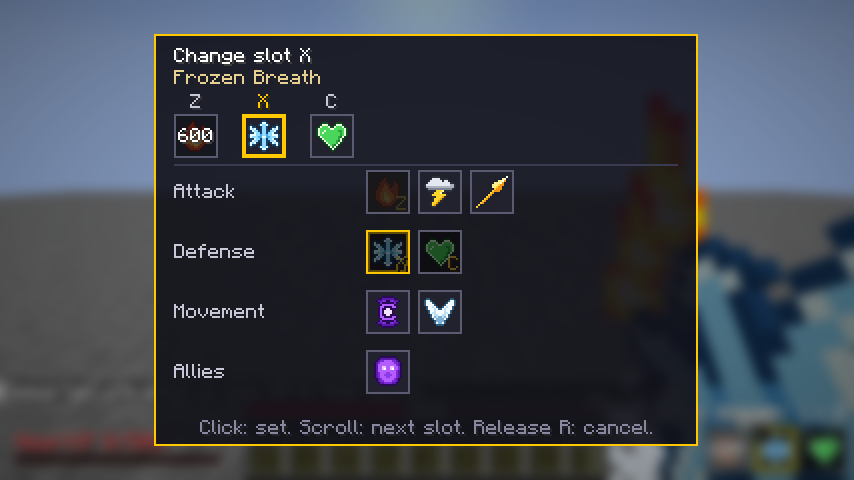
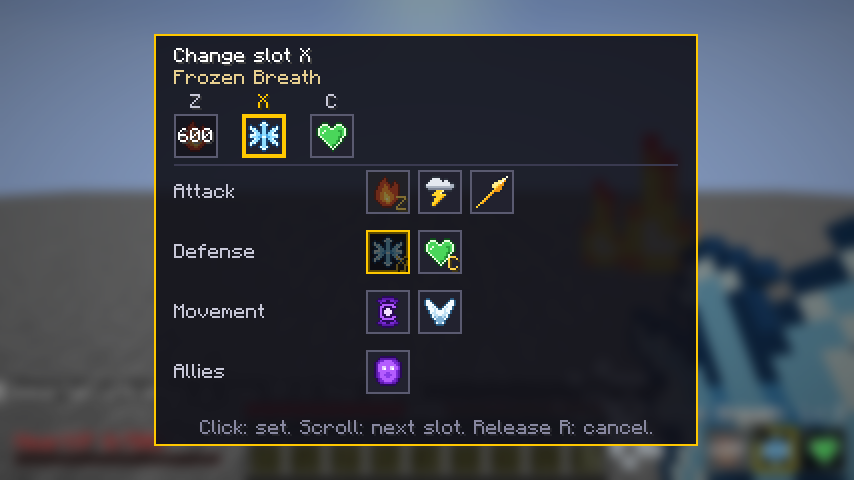
Wheel darkens only the edited slot's technique (D193); grasped evoker's vexes spare other players outside Death Match and villagers (D194)

diff --git a/mods/immortal-cultivation/src/gametest/java/io/github/huydangtruong/immortalcultivation/GraspGameTest.java b/mods/immortal-cultivation/src/gametest/java/io/github/huydangtruong/immortalcultivation/GraspGameTest.java
@@ -144,7 +144,7 @@ public class GraspGameTest {
 	}
 
 	@GameTest(maxTicks = 40)
-	public void theVexesOfAGraspedEvokerNeverAttackTheOwner(GameTestHelper c) { // D192
+	public void theVexesOfAGraspedEvokerNeverAttackTheOwnerOtherPlayersOrVillagers(GameTestHelper c) { // D192, D194
 		ServerPlayer p = grasper(c, 10);
 		net.minecraft.world.entity.monster.illager.Evoker ev = c.spawn(EntityTypes.EVOKER, new Vec3(6.5, 1, 5.5));
 		ev.setNoAi(true);
@@ -158,8 +158,16 @@ public class GraspGameTest {
 		c.assertTrue(Grasp.isGraspedBy(mine, p.getUUID()), "it counts as the owner's ally (techniques and allies skip it)");
 		c.assertTrue(!ev.canAttack(mine), "the evoker's other followers leave it alone");
 		c.assertTrue(wild.canAttack(p), "a wild vex still attacks the player");
+		ServerPlayer other = FlightBladeGameTest.survivor(c); // D194: no Death Match here
+		net.minecraft.world.entity.npc.villager.Villager villager = c.spawn(EntityTypes.VILLAGER, new Vec3(5.5, 1, 2.5));
+		villager.setNoAi(true);
+		c.assertTrue(!mine.canAttack(other), "a vex of the grasped evoker leaves another player alone outside a Death Match");
+		c.assertTrue(!mine.canAttack(villager), "a vex of the grasped evoker never attacks a villager");
+		c.assertTrue(wild.canAttack(other), "a wild vex still attacks any player");
 		mine.discard();
 		wild.discard();
+		villager.discard();
+		FlightBladeGameTest.drop(c, other);
 		cleanUp(c, p);
 		c.succeed();
 	}

diff --git a/mods/immortal-cultivation/src/client/java/io/github/huydangtruong/immortalcultivation/client/TechniqueWheelScreen.java b/mods/immortal-cultivation/src/client/java/io/github/huydangtruong/immortalcultivation/client/TechniqueWheelScreen.java
@@ -18,7 +18,7 @@ import net.minecraft.network.chat.Component;
 
 /**
  * D188/D193 technique wheel: opened by holding R (from the cross it first selects the lowest ready slot). A top row shows the
- * technique slots; the mouse wheel moves the target slot. Techniques that already sit in a slot are drawn darkened.
+ * technique slots; the mouse wheel moves the target slot. The technique already in the edited slot is drawn darkened.
  * D188: opened by holding R while a technique slot is selected. Shows the learned techniques by group; a click
  * puts that technique in the selected slot (the server swaps two slots when it already sits in another one). Letting go of R,
  * or Esc, closes it without a change. The world keeps running behind it.
@@ -196,9 +196,8 @@ public class TechniqueWheelScreen extends Screen {
 				if (at >= 0 && at < d.slotsOpen()) {
 					g.text(font, slotKeyName(at), cx + CELL - 1 - font.width(slotKeyName(at)), ry + CELL - 9, 0xFFFFD24A, true);
 				}
-				int listed = d.slotOf(t);
-				if (listed >= 0 && listed < d.slotsOpen()) {
-					g.fill(cx + 1, ry + 1, cx + CELL - 1, ry + CELL - 1, 0xA0000000); // D193: already in a slot
+				if (t == current) {
+					g.fill(cx + 1, ry + 1, cx + CELL - 1, ry + CELL - 1, 0xA0000000); // D193: already in the edited slot (others stay bright: a click swaps)
 				}
 				if (d.onCooldown(t, now)) {
 					g.fill(cx + 1, ry + 1, cx + CELL - 1, ry + CELL - 1, 0x90202020);

diff --git a/mods/immortal-cultivation/src/main/java/io/github/huydangtruong/immortalcultivation/technique/grasp/Grasp.java b/mods/immortal-cultivation/src/main/java/io/github/huydangtruong/immortalcultivation/technique/grasp/Grasp.java
@@ -259,6 +259,10 @@ public final class Grasp {
 			if (target.getUUID().equals(mine.owner()) || graspOf(target) != null) {
 				return true; // never its owner, never another grasped mob (nor a vex of a grasped evoker, D192)
 			}
+			if (attacker instanceof net.minecraft.world.entity.monster.Vex && !attacker.hasAttached(GraspedMob.ATTACHMENT)
+				&& (target instanceof net.minecraft.world.entity.npc.villager.AbstractVillager || target instanceof Player && !isMatchOpponentOf(attacker, mine, target))) {
+				return true; // D194: a grasped evoker's vex leaves villagers and other players alone (Death Match opponents excepted)
+			}
 		}
 		if (target.hasAttached(GraspedMob.ATTACHMENT) && (attacker instanceof net.minecraft.world.entity.animal.golem.IronGolem
 			|| attacker instanceof net.minecraft.world.entity.animal.golem.SnowGolem || attacker instanceof net.minecraft.world.entity.animal.wolf.Wolf)) {
@@ -271,6 +275,11 @@ public final class Grasp {
 			}
 		}
 		return false;
+	}
+
+	private static boolean isMatchOpponentOf(Mob attacker, GraspedMob g, LivingEntity target) {
+		ServerPlayer o = attacker.level() instanceof ServerLevel sl ? sl.getServer().getPlayerList().getPlayer(g.owner()) : null;
+		return o != null && isMatchOpponent(o, target);
 	}
 
 	/** Death Match: any other player is an opponent of the owner of a grasped mob. */

diff --git a/docs/system/01-decisions.md b/docs/system/01-decisions.md
@@ -194,4 +194,5 @@
 | D190 | Raid không đếm quái sinh tự nhiên; quái raid phát sáng | Huy (2026-11-22): danger cao làm pillager, vindicator… sinh khắp nơi, và game gốc cho chúng tự nhập vào raid gần đó nên raid không bao giờ hết. Nay **quái illager sinh tự nhiên không bao giờ vào raid**; raid chỉ đếm quái của các đợt raid (và đội tuần tra như game gốc). **Mọi quái đang trong raid phát sáng viền** như khi rung chuông, làm mới mỗi giây, hết sáng khi rời raid. Quái tự nhiên đã lỡ vào raid trước bản này vẫn phải giết. |
 | D191 | Sửa lỗi vindicator thu phục đứng yên ban đêm | Huy (2026-11-22): vindicator thu phục (nhất là con từ đội tuần tra) ban đêm cúi mặt đứng yên, không theo, không đánh. Nguyên nhân: goal gốc "giữ vị trí" của đội tuần tra làm nó đứng nhìn mục tiêu ở xa (ban đêm luôn có quái) và chặn cả đánh lẫn đi theo. Nay quái thu phục **bỏ các goal tuần tra, giữ vị trí, đi tới raid, ăn mừng, nhặt cờ**: vẫn đi theo, vẫn đánh quái. |
 | D192 | Sửa lỗi vex của evoker thu phục đánh chủ | Huy (2026-11-22): vex do evoker đã thu phục gọi ra đôi khi đánh chủ. Nay vex của evoker thu phục **tính là phe chủ**: không bao giờ đánh chủ và quái thu phục khác; chiêu của chủ, clone, guardian, angel cũng không đánh nó. Vex hoang vẫn như cũ. |
-| D193 | Bảng đổi chiêu: chọn ô tự động, hàng ô chiêu, lăn chuột | Huy (2026-11-22): giữ R khi không chọn ô chiêu (đang cầm đồ thường) thì **tự chọn ô sẵn sàng nhỏ nhất** (ô mở, có chiêu level 1 trở lên, không hồi; không có ô nào sẵn sàng thì ô 1) rồi mở bảng; ô được chọn thật sự và còn chọn sau khi bảng đóng. Ô đang chọn còn trống vẫn mở được bảng (để điền); không có ô nào mở thì R không làm gì. **Trên cùng bảng có hàng các ô chiêu hiện tại** (Z X C V, icon, ô đang sửa viền vàng, ô đang hồi hiện số giây). Chiêu đã nằm trong ô nào đó bị **làm tối** ở danh sách (vẫn bấm được, như cũ). **Giữ R + lăn chuột** chuyển sang ô mở kế tiếp / trước (xoay vòng), lăn chuột không làm đổi ô đồ trên thanh nhanh. |
+| D193 | Bảng đổi chiêu: chọn ô tự động, hàng ô chiêu, lăn chuột | Huy (2026-11-22): giữ R khi không chọn ô chiêu (đang cầm đồ thường) thì **tự chọn ô sẵn sàng nhỏ nhất** (ô mở, có chiêu level 1 trở lên, không hồi; không có ô nào sẵn sàng thì ô 1) rồi mở bảng; ô được chọn thật sự và còn chọn sau khi bảng đóng. Ô đang chọn còn trống vẫn mở được bảng (để điền); không có ô nào mở thì R không làm gì. **Trên cùng bảng có hàng các ô chiêu hiện tại** (Z X C V, icon, ô đang sửa viền vàng, ô đang hồi hiện số giây). Ở danh sách, **chỉ chiêu đang nằm trong ô đang sửa bị làm tối**; chiêu nằm ở ô khác vẫn sáng (có chữ ô nhỏ) để người chơi hiểu bấm vào là hai ô đổi chỗ. **Giữ R + lăn chuột** chuyển sang ô mở kế tiếp / trước (xoay vòng), lăn chuột không làm đổi ô đồ trên thanh nhanh. |
+| D194 | Vex của evoker thu phục không đánh player khác và villager | Huy (2026-11-22): vex do evoker đã thu phục triệu hồi **không đánh player khác** (ngoài chủ) trừ khi đang Death Match (pvp thì vẫn đánh đối thủ như các quái thu phục khác), và **không bao giờ đánh villager** (kể cả thương nhân lang thang). Vex hoang vẫn đánh mọi player như vanilla. |

diff --git a/docs/system/03-status.md b/docs/system/03-status.md
@@ -47,7 +47,7 @@ A fresh agent reads, in order: this file → [AGENTS.md](../../AGENTS.md) → [w
 | 0.39.0 contains | P-066 Life Stealer (D180): 4 visual bats fly in, lift the target 2 blocks (ceiling-safe, bosses not lifted), drain in 10 pulses over 2 s, fly out, target falls; drains 36% at Lv 1, +2%/level (D181). Passives tab scrolls with the original row size (D177). Technique upgrades cost a flat 5 levels (D178). Item guard debt starts at 0 and grows with wear up to the level cap (D179). Crystal Mayhem hits other players only with PvP on (D182). Area tests green; client suite not run; bats and scroll not looked at in game |
 | 0.40.0 contains | Solar Lance and Fireball burn reset the real vanilla damage cooldown (D183). God Slayer takes its own 5th special-event slot after every 2nd Deadly Treasure (D184). A grasped raider leaves its raid and never joins another (D185). /admin: Give full netherite button and Elixirs tab to lower or raise each bonus (D186). Deadly Treasure purple top bar with coordinates, guards left, time left, and a warning 2 minutes before it vanishes (D187). Area server tests green. |
 | 0.41.0 contains | D188 hold-R technique wheel (Attack/Defense/Movement/Allies, click assigns or swaps slots, red text when the slot cools). D189 Crystal Mayhem gives a fresh 20 shards with clusters after the cooldown. D190 natural illagers never join raids; raid mobs glow. D191 grasped patrol vindicators follow and fight at night. D192 vexes of a grasped evoker are on the owner's side. Area tests green; not tried in a real game. |
-| On `main`, not released | Nothing. Branch `feat/P-068-wheel-slots` has D193 (wheel opens from the cross on the lowest ready slot, slot row on top, listed techniques darkened, scroll between slots), not merged |
+| On `main`, not released | Nothing. Branch `feat/P-068-wheel-slots` has D193 (wheel opens from the cross on the lowest ready slot, slot row on top, only the edited slot's technique darkened, scroll between slots) and D194 (a grasped evoker's vexes leave other players outside Death Match and villagers alone), not merged |
 
 Release steps: [workflow/release.md](../workflow/release.md). Release **only when Huy says so**.
 
